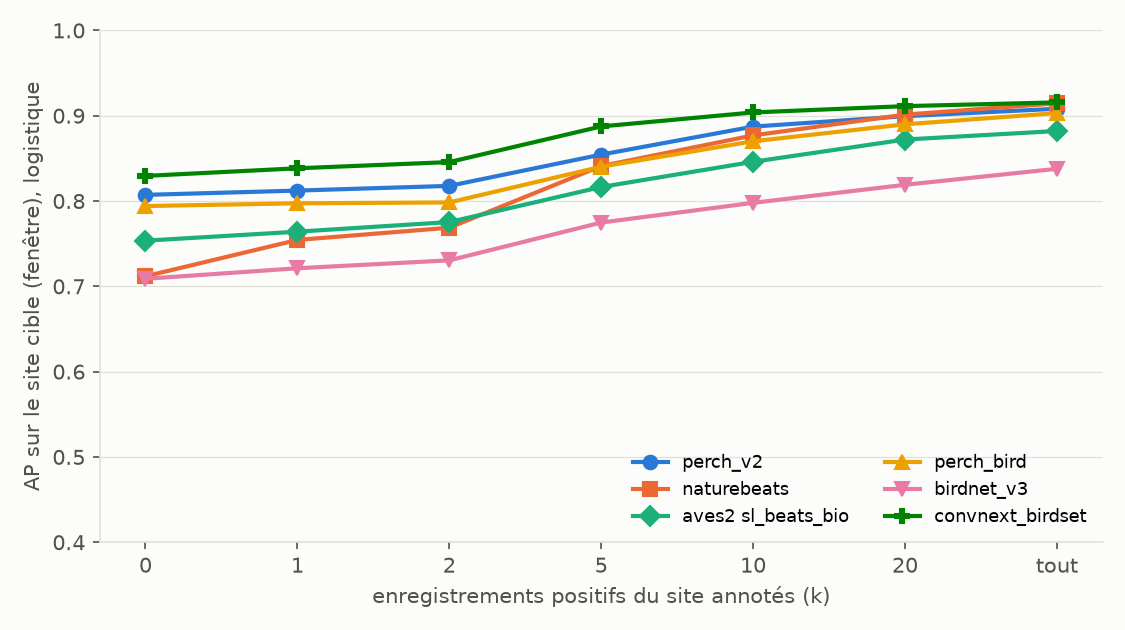
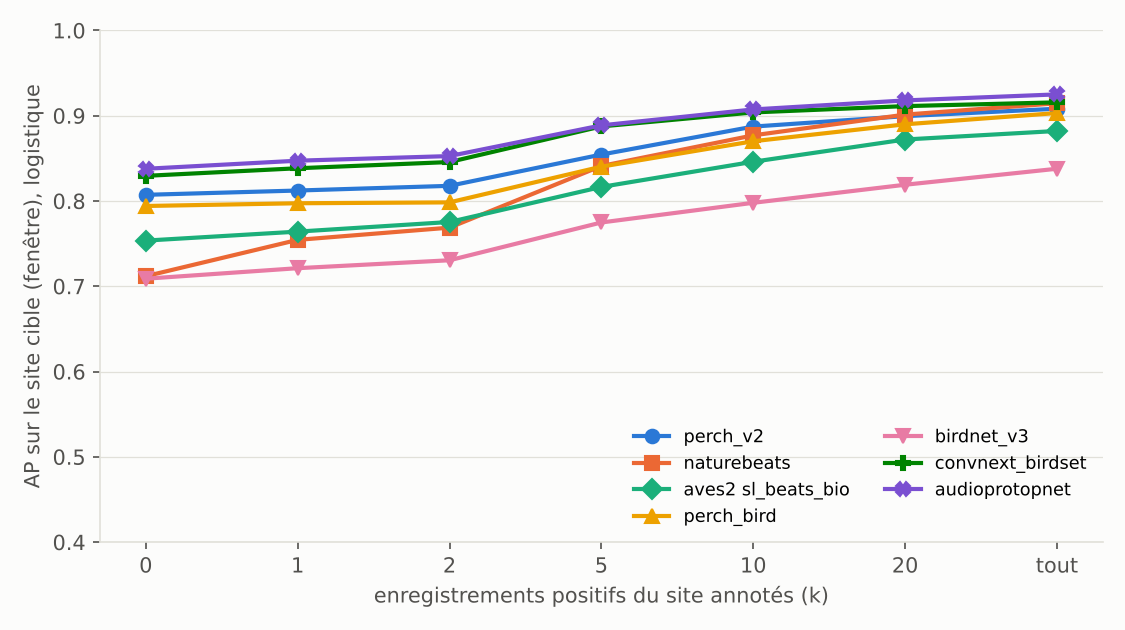
Rapport 08 : audioprotopnet ajouté à la figure 4 (courbe d'amorçage), légende mise à jour
Claude-Session: https://claude.ai/code/session_01F7XA2C1CYSWP4MrfXxSrxt

diff --git a/documentation/benchmarks/2026-09-30_anuraset_encodeurs/generer.py b/documentation/benchmarks/2026-09-30_anuraset_encodeurs/generer.py
@@ -26,8 +26,8 @@ import generer as tableaux  # noqa: E402
 
 SURFACE, ENCRE, ENCRE_2, FILET, GRIS = "#fcfcfb", "#0b0b0b", "#52514e", "#e1e0d9", "#b9b8b1"
 BLEU, ORANGE = "#2a78d6", "#eb6834"
-SERIES = ["#2a78d6", "#eb6834", "#1baf7a", "#eda100", "#e87ba4", "#008300"]
-MARQUES = ["o", "s", "D", "^", "v", "P"]
+SERIES = ["#2a78d6", "#eb6834", "#1baf7a", "#eda100", "#e87ba4", "#008300", "#7a4fd1"]
+MARQUES = ["o", "s", "D", "^", "v", "P", "X"]
 ESPECES = ["DENMIN", "PITAZU", "PHYCUV", "LEPLAT", "BOAFAB"]
 REFERENCE = ("perch_v2", "logistic")
 COURBE = [  # encodeurs de la figure 4 (ordre fixe des couleurs)
@@ -37,6 +37,7 @@ COURBE = [  # encodeurs de la figure 4 (ordre fixe des couleurs)
     "perch_bird",
     "birdnet_v3",
     "convnext_birdset",
+    "audioprotopnet",
 ]
 K_ORDRE, K_NOMS = [0, 1, 2, 5, 10, 20, -1], ["0", "1", "2", "5", "10", "20", "tout"]
 LIBRE = {"oui": "libre", "sous réserve": "libre ?", "non": "non libre", "non relevée": "?"}

diff --git a/documentation/benchmarks/2026-09-30_anuraset_encodeurs/RAPPORT.md b/documentation/benchmarks/2026-09-30_anuraset_encodeurs/RAPPORT.md
@@ -104,9 +104,9 @@ le temps réel ; convnext_birdset, 35 fois ; naturebeats, 30 fois.*
 ![Courbe d'amorçage](figures/4_courbe_amorcage.png)
 
 *Figure 4 — Site neuf, k enregistrements positifs annotés (logistique seule : les têtes sur
-jetons ne sont pas dans la courbe). audioprotopnet, ajouté après la figure, n'y figure pas : sa
-courbe est dans `donnees/courbe.csv` et suit de près celle de convnext_birdset, la meilleure
-du graphique. perch_v2 devance naturebeats jusqu'à k = 10.*
+jetons ne sont pas dans la courbe). audioprotopnet (violet) est la courbe la plus haute, juste
+devant convnext_birdset ; l'écart entre les deux est faible. perch_v2 devance naturebeats
+jusqu'à k = 10.*
 
 Contre le meilleur libre (perch_v2 + sonde à prototypes), écart d'AP moyenne par site
 (minute) ; seul audioprotopnet sur DENMIN survit à Holm (+0,16) :
